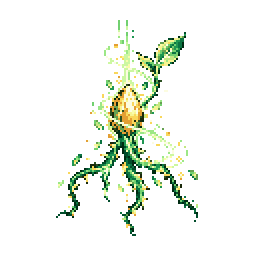
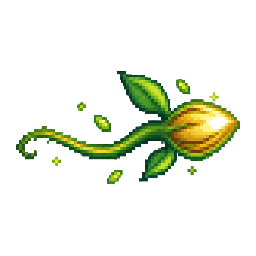
Update Sequence 6 artwork and impact routing

Changed region(s): [[0.0625, 0.0625, 0.9375, 0.9375], [0.1875, 0.5938, 0.25, 0.6562]]

diff --git a/tests/sequence6-fx.test.js b/tests/sequence6-fx.test.js
@@ -8,8 +8,11 @@ function test(name,fn){let f;try{f=fixture();fn(f);passed++;console.log('PASS '+
 test('every Sequence 6 ability routes a cast cue with its own asset and 800ms timing',f=>{for(const [id,pathway] of Object.entries(abilities)){f.effects.clear();f.effects.sync({caster:{id:'caster',path:pathway,sequence:6},ally:{id:'ally',path:'sun',sequence:6},enemy:{id:'enemy',path:'red_priest',sequence:6}});const r=row(id,pathway,[{type:'damage',event:event('damage','caster','enemy',{amount:15,hpLoss:15})}]);f.effects.show({type:'cast',row:r,next:r.timeline[0]},1,800);const node=f.find('.gm-combat-sequence6[data-stage="cast"]');assert(node,id);assert.equal(node.dataset.abilityId,id);assert.equal(node.dataset.effectSrc,fx.sequence6Abilities[id].asset);assert(active(f).some(a=>a.element===node&&a.timing.duration===800),id+' managed timing');}});
 test('travel art rotates along the caster-to-target vector in either team direction',f=>{for(const actorId of ['caster','enemy']){f.effects.clear();f.effects.sync({caster:{id:'caster',path:'abyss',sequence:6},enemy:{id:'enemy',path:'red_priest',sequence:6}});const targetId=actorId==='caster'?'enemy':'caster',r=row('magma_arrow','abyss',[{type:'damage',event:event('damage',actorId,targetId,{amount:20})}],actorId);f.effects.show({type:'cast',row:r,next:r.timeline[0]},1,800);const node=f.find('.gm-combat-sequence6[data-stage="cast"]');assert(node);const angle=Number(node.dataset.angleDeg);const frames=active(f).find(a=>a.element===node).keyframes;const coords=frames.map(k=>k.transform.match(/translate\(([-\d.]+)px,([-\d.]+)px\)/).slice(1).map(Number));assert(coords[0][0]!==coords.at(-1)[0]||coords[0][1]!==coords.at(-1)[1]);assert(Number.isFinite(angle));}});
 test('target-centered impact uses the recorded victim and follows impact direction',f=>{const r=row('lightning_bolt','tyrant');const hit=event('damage','caster','enemy',{amount:20,damageType:'lightning'});f.effects.show({type:'damage',row:r,event:hit},1,225);const n=f.find('.gm-combat-sequence6[data-stage="impact"]');assert(n);assert.equal(n.dataset.targetId,'enemy');assert(Number(n.dataset.angleDeg)<0);});
+test('Tyrant lightning spans attacker to target with an extended, direction-aligned cast',f=>{const r=row('lightning_bolt','tyrant');f.effects.show({type:'cast',row:r,next:r.timeline[0]},1,800);const n=f.find('.gm-combat-sequence6[data-stage="cast"]');assert(n);assert.equal(n.dataset.flightPath,'attacker-to-target-span');assert.equal(n.dataset.targetId,'enemy');assert(Number(n.dataset.effectWidth)>280);assert(Number(n.dataset.effectHeight)>60);assert.equal(n.querySelector('image').getAttribute('preserveAspectRatio'),'none');assert(Number(n.dataset.angleDeg)<0);});
 test('Sequence 6 authored impact does not stack a generic projectile on its own hit',f=>{const r=row('magma_arrow','abyss');const hit=event('damage','caster','enemy',{amount:20,hpLoss:20,damageType:'magma'});f.effects.show({type:'damage',row:r,event:hit},1,225);assert(f.find('.gm-combat-sequence6[data-stage="impact"]'),'authored impact remains');assert.equal(f.find('.gm-combat-projectile'),null,'generic travel projectile must not duplicate the authored Sequence 6 hit');assert.equal(f.find('.gm-combat-impact'),null,'generic hit burst must not cover the authored Sequence 6 impact');});
+test('Dream Slumber remains stationary at the target and Depravity Mark casts at its target',f=>{for(const [id,path] of [['dream_slumber','darkness'],['depravity_mark','hanged_man']]){f.effects.clear();f.effects.sync({caster:{id:'caster',path,sequence:6},enemy:{id:'enemy',path:'red_priest',sequence:6}});const r=row(id,path,[{type:'status',event:event('status','caster','enemy',{status:'sleep'})}]);f.effects.show({type:'cast',row:r,next:r.timeline[0]},1,800);const n=f.find('.gm-combat-sequence6[data-stage=\"cast\"]');assert(n,id);assert.equal(n.dataset.targetId,'enemy');assert.equal(n.dataset.flightPath,'stationary');const frames=active(f).find(a=>a.element===n).keyframes;const coords=frames.map(frame=>frame.transform.match(/translate\(([-\d.]+)px,([-.\d]+)px\)/).slice(1).join(','));assert(coords.every(value=>value===coords[0]),id+' cast remains stationary on target');}});
 test('caster-local effects are not incorrectly launched at the enemy',f=>{const r=row('moonlight_shield','moon',[{type:'shield',event:event('shield','caster','caster',{amount:20})}]);f.effects.show({type:'cast',row:r,next:r.timeline[0]},1,800);const n=f.find('.gm-combat-sequence6[data-stage="cast"]');assert(n);assert.equal(n.dataset.targetId,'caster');});
+test('offensive Twilight and Paragon art does not replay on the attacker for cleanse or self-shield outcomes',f=>{for(const [id,path,eventType,extra] of [['light_of_dawn','twilight_giant','status',{beneficial:true,subtype:'cleanse'}],['alchemical_fire','paragon','shield',{amount:12}]]){f.effects.clear();f.effects.sync({caster:{id:'caster',path,sequence:6},enemy:{id:'enemy',path:'red_priest',sequence:6}});const r=row(id,path,[{type:'damage',event:event('damage','caster','enemy',{amount:18,hpLoss:18})},{type:eventType,event:event(eventType,'caster','caster',extra)}]);f.effects.show({type:eventType,row:r,event:r.timeline[1].event},1,500);assert.equal(f.find('.gm-combat-sequence6'),null,id+' must not replay its offensive effect on caster');assert(f.find(eventType==='shield'?'.gm-combat-shield':'.gm-combat-status'),id+' shared support cue remains');}});
 test('support and hostile status outcomes appear only at recorded recipients',f=>{const s=row('moonlight_shield','moon');f.effects.show({type:'shield',row:s,event:event('shield','caster','ally',{amount:20})},1,500);assert.equal(f.find('.gm-combat-sequence6[data-stage="outcome"]').dataset.targetId,'ally');f.effects.clear();f.effects.sync({caster:{id:'caster',path:'darkness',sequence:6},enemy:{id:'enemy',path:'red_priest',sequence:6}});const d=row('dream_slumber','darkness');f.effects.show({type:'status',row:d,event:event('status','caster','enemy',{status:'sleep'})},1,500);assert.equal(f.find('.gm-combat-sequence6[data-stage="impact"]').dataset.targetId,'enemy');});
 test('periodic, reflected, and foreign-actor events do not invent Sequence 6 impact art',f=>{const r=row('magma_arrow','abyss');for(const e of [event('damage','caster','enemy',{isDot:true}),event('damage','caster','enemy',{isReflect:true}),event('damage','ally','enemy',{})]){f.effects.clear();f.effects.show({type:'damage',row:r,event:e},1,225);assert.equal(f.find('.gm-combat-sequence6[data-stage="impact"]'),null);}});
 test('basic attacks cannot accidentally use Sequence 6 artwork',f=>{const r=row('magma_arrow','abyss');r.abilityId='basic_attack';r.sourceAbilityId='basic_attack';r.attackKind='melee';f.effects.show({type:'cast',row:r,next:{type:'damage',event:event('damage','caster','enemy',{})}},1,800);assert.equal(f.find('.gm-combat-sequence6'),null);});

diff --git a/js/ui.js b/js/ui.js
@@ -477,15 +477,18 @@ function createCombatFx(wrap) {
     return mode === 'support' ? (supportEvent?.event.targetId ?? row.actorId)
       : (targetEvent?.event.targetId ?? row.targetId ?? row.actorId);
   }
-  function sequence6Image(row, stage, targetId, mode, p) {
+  function sequence6Image(row, stage, targetId, mode, p, geometry = {}) {
     const spec = sequence6Config(row), root = layer();
     if (!spec || !root || !p) return null;
     const size = Math.min((canvas()?.getBoundingClientRect().width || 320) - 8, effectHeight(point(targetId) || p) * 1.14);
+    const width = Number(geometry.width) > 0 ? Number(geometry.width) : size;
+    const height = Number(geometry.height) > 0 ? Number(geometry.height) : size;
     const node = group('gm-combat-sequence6', row.actorId, targetId, spec.color);
     for (const [key, value] of Object.entries({ 'ability-id': presentationAbility(row), stage, mode,
-      'effect-src': spec.asset, 'effect-width': size, 'effect-height': size })) node.setAttribute(`data-${key}`, value);
+      'effect-src': spec.asset, 'effect-width': width, 'effect-height': height })) node.setAttribute(`data-${key}`, value);
     node.setAttribute('transform', `translate(${p.x} ${p.y})`);
-    image(node, spec.asset, size, size, 'gm-combat-effect-image gm-combat-sequence6-image');
+    image(node, spec.asset, width, height, 'gm-combat-effect-image gm-combat-sequence6-image');
+    if (geometry.stretch) node.querySelector('image')?.setAttribute('preserveAspectRatio', 'none');
     root.append(node);
     return node;
   }
@@ -497,20 +500,35 @@ function createCombatFx(wrap) {
     const target = point(targetId);
     if (!target) { mode = 'caster'; targetId = row.actorId; }
     const destination = point(targetId) || actor;
-    const moving = mode === 'travel' && targetId !== row.actorId;
-    const angle = moving ? Math.atan2(destination.y - actor.y, destination.x - actor.x) * 180 / Math.PI : 0;
-    const node = sequence6Image(row, 'cast', targetId, mode, moving ? destination : (mode === 'caster' ? actor : destination));
+    const spanLightning = presentationAbility(row) === 'lightning_bolt' && mode === 'travel' && targetId !== row.actorId;
+    const moving = mode === 'travel' && targetId !== row.actorId && !spanLightning;
+    const angle = (moving || spanLightning) ? Math.atan2(destination.y - actor.y, destination.x - actor.x) * 180 / Math.PI : 0;
+    const midpoint = spanLightning ? { x: (actor.x + destination.x) / 2, y: (actor.y + destination.y) / 2 } : null;
+    const spanWidth = spanLightning ? Math.hypot(destination.x - actor.x, destination.y - actor.y) : 0;
+    const spanHeight = spanLightning ? Math.max(24, effectHeight(point(targetId) || destination) * 1.12) : 0;
+    const node = sequence6Image(row, 'cast', targetId, mode,
+      spanLightning ? midpoint : moving ? destination : (mode === 'caster' ? actor : destination),
+      spanLightning ? { width: spanWidth, height: spanHeight, stretch: true } : undefined);
     if (!node) return;
     node.setAttribute('data-angle-deg', String(angle));
-    node.setAttribute('data-flight-path', moving ? 'straight' : 'stationary');
-    if (moving) node.setAttribute('data-flow-direction', 'caster-to-target');
+    node.setAttribute('data-flight-path', spanLightning ? 'attacker-to-target-span' : moving ? 'straight' : 'stationary');
+    if (moving || spanLightning) node.setAttribute('data-flow-direction', 'caster-to-target');
     const hold = Math.max(1, Number(phaseHold) || readableCastDuration(row));
     if (compact()) return;
     const pose = (progress, scale = 1) => {
-      const x = moving ? actor.x + (destination.x - actor.x) * progress : destination.x;
-      const y = moving ? actor.y + (destination.y - actor.y) * progress : destination.y;
-      return `translate(${x}px,${y}px) rotate(${angle}deg) scale(${scale})`;
+      const x = spanLightning ? midpoint.x : moving ? actor.x + (destination.x - actor.x) * progress : destination.x;
+      const y = spanLightning ? midpoint.y : moving ? actor.y + (destination.y - actor.y) * progress : destination.y;
+      return `translate(${x}px,${y}px) rotate(${angle}deg) scale(${scale}${spanLightning ? ',1' : ''})`;
     };
+    if (spanLightning) {
+      animate(node, [
+        { transform: pose(0, .08), opacity: .12 },
+        { transform: pose(0, .72), opacity: 1, offset: .2 },
+        { transform: pose(0, 1), opacity: 1, offset: .72 },
+        { transform: pose(0, .98), opacity: 0 }
+      ], hold);
+      return;
+    }
     animate(node, moving ? [
       { transform: pose(0, .56), opacity: 0 },
       { transform: pose(.1, .88), opacity: 1, offset: .16 },
@@ -533,7 +551,11 @@ function createCombatFx(wrap) {
     const hit = damageTypes.has(event.type) && !event.isReaction;
     const hostileStatus = event.type === 'status' && event.targetId != null && event.targetId !== row.actorId;
     if (!support && !hit && !hostileStatus) return;
-    const id = event.targetId ?? row.actorId, p = point(id);
+    const id = event.targetId ?? row.actorId;
+    // Offensive art is the cast/hit effect, not a second image for a side support result.
+    // The regular heal/shield/status cue and number remain drawn by support().
+    if (support && id === row.actorId && !['support', 'caster'].includes(spec.mode)) return;
+    const p = point(id);
     if (!p) return;
     const node = sequence6Image(row, support ? 'outcome' : hostileStatus ? 'impact' : 'impact', id, support ? 'support' : spec.mode, p);
     if (!node) return;
